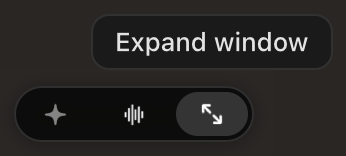
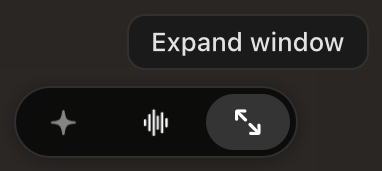
Mini 142×36 for both toolbar and recording pill; large window always fully opaque
The idle ("Always show") large window was drawn at 62 % opacity, which showed up as a
see-through card after ⤢ Expand.

diff --git a/App/RecordingWindow/MiniRecordingView.swift b/App/RecordingWindow/MiniRecordingView.swift
@@ -24,15 +24,15 @@ final class MiniRecordingView: RecordingWindowView {
     /// differ in what they show.
     private static let toolbarSize = activeSize
     private static let activeSize = CGSize(width: 2 * toolbarInset + 3 * highlightSize.width + 2 * toolbarInset,
-                                           height: 28)
-    private static let lockedActiveSize = CGSize(width: activeSize.width + 16, height: activeSize.height)
+                                           height: 36)
+    private static let lockedActiveSize = CGSize(width: activeSize.width + 18, height: activeSize.height)
     /// One inset everywhere in the toolbar: from the capsule's edge to a hover highlight and
     /// between highlights. The highlights are pills as tall as the capsule minus that inset, so
     /// the end ones sit concentric with the capsule's rounded ends.
-    private static let toolbarInset: CGFloat = 3
-    private static let highlightSize = CGSize(width: 36, height: 28 - 2 * toolbarInset)
+    private static let toolbarInset: CGFloat = 4
+    private static let highlightSize = CGSize(width: 42, height: 36 - 2 * toolbarInset)
     /// Clear of the capsule's rounded ends, so bars never touch the curve.
-    private static let waveformSize = CGSize(width: 84, height: 15)
+    private static let waveformSize = CGSize(width: 100, height: 18)
     private static let messageWidth: CGFloat = 400
     private static let rewriteTint = NSColor(red: 1, green: 0.8, blue: 0.36, alpha: 1)
     private static let tooltipFont = NSFont.systemFont(ofSize: 13, weight: .medium)
@@ -91,7 +91,7 @@ final class MiniRecordingView: RecordingWindowView {
         lockDot.opacity = 0
         barRow.addSublayer(lockDot)
         // Processing: a glow running along a row of dots, in place of the waveform.
-        dots.layout(in: CGRect(x: -38, y: -4, width: 76, height: 8))
+        dots.layout(in: CGRect(x: -44, y: -4, width: 88, height: 8))
         barRow.addSublayer(dots.layer)
 
         buttons = [
@@ -108,7 +108,7 @@ final class MiniRecordingView: RecordingWindowView {
             button.highlight.cornerRadius = Self.highlightSize.height / 2
             button.highlight.backgroundColor = NSColor.white.withAlphaComponent(0.17).cgColor
             button.highlight.opacity = 0
-            button.icon.bounds = CGRect(x: 0, y: 0, width: 13, height: 13)
+            button.icon.bounds = CGRect(x: 0, y: 0, width: 16, height: 16)
             button.icon.position = centre
             button.icon.contentsGravity = .resizeAspect
             button.icon.contents = Self.symbol(symbol, color: .white)
@@ -504,7 +504,7 @@ final class MiniRecordingView: RecordingWindowView {
     private static func symbol(_ name: String, color: NSColor) -> Any? {
         NSImage(systemSymbolName: name, accessibilityDescription: nil)?
             .withSymbolConfiguration(
-                NSImage.SymbolConfiguration(pointSize: 11.5, weight: .semibold)
+                NSImage.SymbolConfiguration(pointSize: 13.5, weight: .semibold)
                     .applying(NSImage.SymbolConfiguration(paletteColors: [color]))
             )?
             .layerContents(forContentsScale: 2)

diff --git a/App/RecordingWindow/ClassicRecordingView.swift b/App/RecordingWindow/ClassicRecordingView.swift
@@ -15,8 +15,6 @@ final class ClassicRecordingView: RecordingWindowView {
     private static let live = NSColor(red: 1, green: 0.27, blue: 0.23, alpha: 1)
     private static let collapseSize: CGFloat = 22
     private static let hintGap: CGFloat = 18
-    /// The card at rest ("Always show"): see-through until a dictation starts.
-    private static let restingOpacity: Float = 0.62
 
     private let card: CALayer
     private let footer = CALayer()
@@ -195,7 +193,6 @@ final class ClassicRecordingView: RecordingWindowView {
         CATransaction.begin()
         CATransaction.setAnimationDuration(animated ? 0.18 : 0)
         CATransaction.setDisableActions(!animated)
-        card.opacity = mode == .idle ? Self.restingOpacity : 1
         micIcon.opacity = processing || live ? 0 : 1
         spinner.opacity = processing ? 1 : 0
         startHint.opacity = mode == .idle ? 1 : 0

diff --git a/App/UI/StylePreviews.swift b/App/UI/StylePreviews.swift
@@ -83,9 +83,9 @@ final class PreviewClock {
 /// A waveform style moving inside a pill drawn exactly like the small recording window's
 /// (same layers and sizes), shown a little larger.
 final class WaveformPreviewView: NSView {
-    private static let pillSize = CGSize(width: 120, height: 28)
-    private static let waveformSize = CGSize(width: 84, height: 15)
-    private static let scale: CGFloat = 1.45
+    private static let pillSize = CGSize(width: 142, height: 36)
+    private static let waveformSize = CGSize(width: 100, height: 18)
+    private static let scale: CGFloat = 1.1
 
     private let pill = CALayer()
     private let clip = CALayer()

diff --git a/App/RecordingWindow/RecordingWindowView.swift b/App/RecordingWindow/RecordingWindowView.swift
@@ -402,7 +402,7 @@ final class MessageBubble {
     private let icon = CALayer()
     private let label = CATextLayer()
     private static let font = NSFont.systemFont(ofSize: 13, weight: .medium)
-    static let height: CGFloat = 28
+    static let height: CGFloat = 30
 
     init() {
         layer.cornerRadius = Self.height / 2
